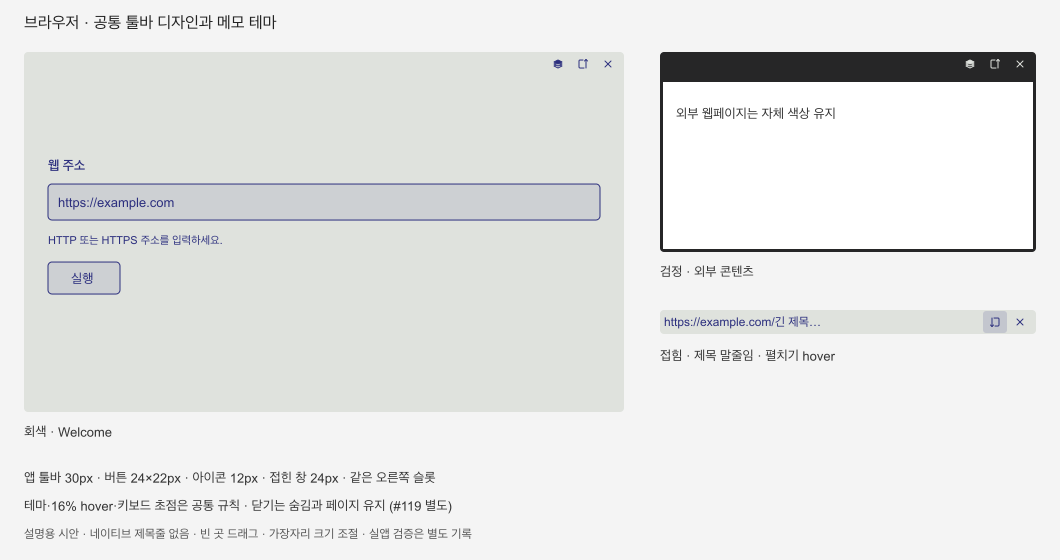
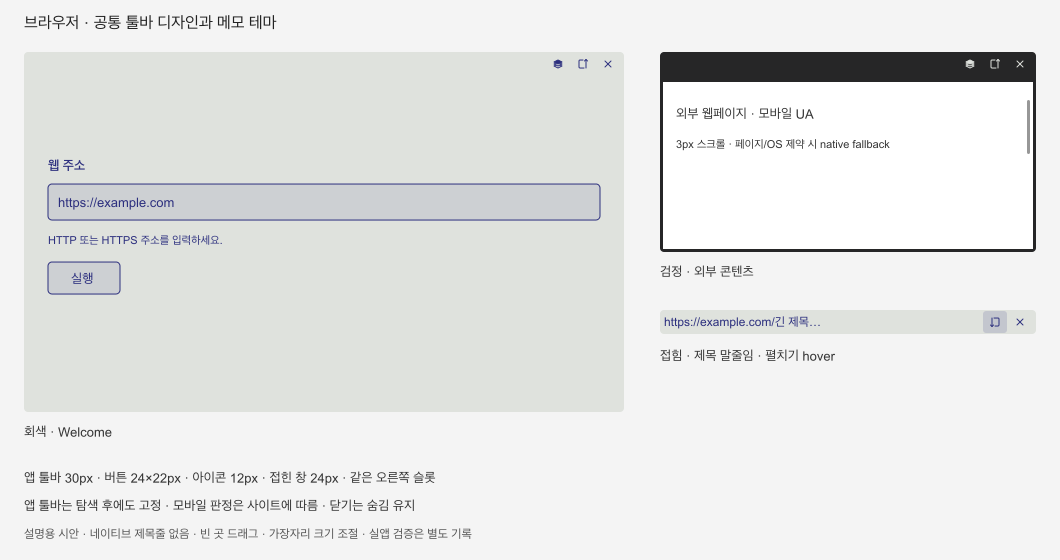
웹 메모 툴바 유지·모바일 표시와 시작 패닉 방지
웹 탐색 후 공통 툴바를 유지하고 모바일 UA·고정 스크롤 스타일을 적용한다. nullable WebView URL 관측으로 시작 패닉을 막고 세션 복원을 보완한다. 관련 Rust224/UI180·Clippy·빌드와 브라우저·실제 시작 검사를 통과했다. 남은 native GUI 검증은 #177, 웹 목록 누락은 #184에서 추적한다.

Changed region(s): [[0.0311, 0.8804, 0.4358, 0.9107], [0.6226, 0.2429, 0.8406, 0.2732], [0.716, 0.1821, 0.8094, 0.2125]]

diff --git a/tests/fixtures/web-presentation-probe.html b/tests/fixtures/web-presentation-probe.html
@@ -1,0 +1,3 @@
+<!doctype html><meta name="viewport" content="width=device-width,initial-scale=1"><title>ISSUE177-NATIVE-CONTENT</title><style>body{margin:0;font:12px sans-serif}header{background:#fed;padding:8px}pre{white-space:pre-wrap;overflow-wrap:anywhere}article{height:2400px;background:linear-gradient(white,#cde)}</style><header>ISSUE177-NATIVE-CONTENT <a href="/second">second</a> <button onclick="history.back()">back</button><button onclick="location.reload()">reload</button> <a href="file:///tmp/issue177-blocked">file blocked</a> <a href="tauri://localhost/web.html">internal blocked</a></header><pre id="report"></pre><article>scroll fixture</article><script>
+async function report(){let probes={};for(const [name,args] of [['manager_notes',{}],['save_note',{markdown:'IPC_UNEXPECTED',expectedRevision:9007199254740991}],['terminal_start',{cols:80,rows:24}],['web_chrome',{action:'inspect'}],['plugin:window|set_title',{title:'IPC_UNEXPECTED'}]]){try{await window.__TAURI__.core.invoke(name,args);probes[name]='UNEXPECTED_SUCCESS'}catch(e){probes[name]=String(e)}}let r={ua:navigator.userAgent,width:innerWidth,height:innerHeight,viewport:visualViewport.width,clientWidth:document.documentElement.clientWidth,dpr:devicePixelRatio,scrollbar:getComputedStyle(document.documentElement,'::-webkit-scrollbar').width,bridge:!!window.__TAURI__,path:location.pathname,probes};document.getElementById('report').textContent=JSON.stringify(r,null,2);fetch('/report',{method:'POST',body:JSON.stringify(r)})}addEventListener('load',report);addEventListener('resize',report)
+</script>

diff --git a/src-tauri/src/web_presentation.js b/src-tauri/src/web_presentation.js
@@ -1,0 +1,32 @@
+// Fixed presentation only: no application commands, remote input, or bridge.
+// Each top-level HTTP(S) document gets its own style; page CSS/CSP may override it.
+(() => {
+  if (!/^https?:$/.test(location.protocol)) return;
+  const apply = () => {
+    if (!document.head) return;
+    const style = document.createElement('style');
+    style.textContent = `
+      :root { scrollbar-gutter: auto; }
+      *::-webkit-scrollbar { width: 3px; height: 3px; }
+      *::-webkit-scrollbar-track, *::-webkit-scrollbar-corner { background: transparent; }
+      *::-webkit-scrollbar-thumb { background: rgba(96,96,96,.65); border-radius: 2px; }
+      @media (prefers-color-scheme: dark) {
+        *::-webkit-scrollbar-thumb { background: rgba(192,192,192,.65); }
+      }
+      @media (forced-colors: active) {
+        *::-webkit-scrollbar { width: auto; height: auto; }
+        *::-webkit-scrollbar-thumb { background: CanvasText; }
+      }`;
+    document.head.appendChild(style);
+    // Keep the site's authored viewport. Desktop WebKit does not emulate a
+    // touch device; this hint only fills the missing responsive viewport.
+    if (!document.querySelector('meta[name="viewport" i]')) {
+      const viewport = document.createElement('meta');
+      viewport.name = 'viewport';
+      viewport.content = 'width=device-width, initial-scale=1';
+      document.head.appendChild(viewport);
+    }
+  };
+  if (document.readyState === 'loading') document.addEventListener('DOMContentLoaded', apply, {once: true});
+  else apply();
+})();

diff --git a/ui/web.css b/ui/web.css
@@ -19,3 +19,9 @@ main[hidden] { display: none; }
    content reserves matching 3px side/bottom strips in web.rs. */
 #controls { cursor: move; }
 body.toolbar-collapsed .resize { display: none; }
+
+/* The trusted toolbar stays anchored when a focused Welcome field is hidden.
+   WebKit may retain the root scroll offset after focus moves to a child view. */
+html { overflow: hidden; }
+#controls { position: fixed; inset: 0 0 auto; }
+main { margin-top: 30px; }

diff --git a/src-tauri/src/web.rs b/src-tauri/src/web.rs
@@ -13,7 +13,12 @@ struct Record {
     url: Option<String>,
 }
 #[derive(Default)]
-pub struct Windows(Mutex<BTreeMap<String, Record>>);
+pub struct Windows(
+    Mutex<BTreeMap<String, Record>>,
+    // Navigation callbacks can precede record insertion during native startup.
+    Mutex<BTreeMap<String, String>>,
+    Mutex<BTreeMap<String, String>>,
+);
 // Preserve app-wide window enumeration for hosts containing remote child WebViews.
 pub fn managed_windows(app: &tauri::AppHandle) -> std::collections::HashMap<String, WebviewWindow> {
     let mut windows = app.webview_windows();
@@ -35,6 +40,9 @@ pub fn managed_window(app: &tauri::AppHandle, label: &str) -> Option<WebviewWind
             .map(|r| r.host.clone())
     })
 }
+// A mobile Safari UA is applied before the first network request. It is a
+// compatibility hint, not device emulation or a guarantee of mobile content.
+const MOBILE_USER_AGENT: &str = "Mozilla/5.0 (iPhone; CPU iPhone OS 18_0 like Mac OS X) AppleWebKit/605.1.15 (KHTML, like Gecko) Version/18.0 Mobile/15E148 Safari/604.1";
 fn err(e: impl std::fmt::Display) -> String {
     e.to_string()
 }
@@ -76,11 +84,55 @@ fn record(app: &tauri::AppHandle, id: &str) -> Result<Record, String> {
         .cloned()
         .ok_or("웹 창을 찾을 수 없습니다".into())
 }
+// Wry 0.57 macOS url() unwraps WKWebView.URL even before a document exists.
+// Read the public nullable property directly and report unknown as null. Do not
+// confuse the last allowed navigation target with the committed/current URL.
+fn current_webview_url(view: &tauri::Webview, app: &tauri::AppHandle, id: &str) -> Option<String> {
+    #[cfg(target_os = "macos")]
+    {
+        let app = app.clone();
+        let id = id.to_owned();
+        let observed = app.state::<Windows>().2.lock().ok()?.get(&id).cloned();
+        view.with_webview(move |platform| unsafe {
+            let native = &*platform.inner().cast::<objc2::runtime::AnyObject>();
+            let url: Option<objc2::rc::Retained<objc2_foundation::NSURL>> =
+                objc2::msg_send![native, URL];
+            let value = url
+                .and_then(|url| url.absoluteString())
+                .map(|s| s.to_string());
+            if let Ok(mut urls) = app.state::<Windows>().2.lock() {
+                if let Some(value) = value {
+                    urls.insert(id, value);
+                } else {
+                    urls.remove(&id);
+                }
+            }
+        })
+        .ok()?;
+        // Native callbacks may be deferred. Return only an actually observed
+        // URL, never wait on the UI thread or substitute a navigation target.
+        observed
+    }
+    #[cfg(not(target_os = "macos"))]
+    {
+        let _ = (app, id);
+        view.url().ok().map(|url| url.to_string())
+    }
+}
 pub fn inspect(app: &tauri::AppHandle, id: &str) -> Result<Value, String> {
     let r = record(app, id)?;
     let w = r.host.clone();
+    let content = app.get_webview(&format!("webpage-{id}"));
+    let current_url = current_webview_url(content.as_ref().unwrap_or(w.as_ref()), app, id);
+    let navigation_url = app
+        .state::<Windows>()
+        .1
+        .lock()
+        .map_err(err)?
+        .get(id)
+        .cloned();
     Ok(
-        json!({"ok":true,"instance":crate::instance::current().id,"id":id,"kind":"web","title":w.title().map_err(err)?,"url":r.url,"welcome":r.url.is_none(),"current_url":app.get_webview(&format!("webpage-{id}")).map(|v| v.url()).transpose().map_err(err)?.unwrap_or(w.url().map_err(err)?).as_str(),"visible":w.is_visible().map_err(err)?,"focused":w.is_focused().map_err(err)?,"always_on_top":w.is_always_on_top().map_err(err)?,"position":w.outer_position().map_err(err)?,"size":w.inner_size().map_err(err)?}),
+        json!({"ok":true,"instance":crate::instance::current().id,"id":id,"kind":"web","title":w.title().map_err(err)?,"url":r.url,"welcome":r.url.is_none(),"current_url":current_url,"navigation_url":navigation_url,"visible":w.is_visible().map_err(err)?,"focused":w.is_focused().map_err(err)?,"always_on_top":w.is_always_on_top().map_err(err)?,"position":w.outer_position().map_err(err)?,"size":w.inner_size().map_err(err)?}),
     )
 }
 pub fn entries(app: &tauri::AppHandle) -> Result<Vec<Value>, String> {
@@ -106,6 +158,31 @@ fn show(w: &WebviewWindow) -> Result<(), String> {
     w.show().map_err(err)?;
     #[cfg(any(target_os = "macos", windows))]
     crate::focus::restore(w);
+    Ok(())
+}
+// Configure only public NSScrollView descendants owned by this remote view.
+// No private WK selectors or application/global scrollbar preferences are used.
+fn configure_native_scrollbars(content: &tauri::Webview) -> Result<(), String> {
+    #[cfg(target_os = "macos")]
+    content
+        .with_webview(|platform| unsafe {
+            use objc2::{runtime::NSObjectProtocol, ClassType};
+            use objc2_app_kit::{NSScrollView, NSScrollerStyle, NSView};
+            fn apply(view: &NSView) {
+                if view.isKindOfClass(NSScrollView::class()) {
+                    // SAFETY: isKindOfClass above checked this public superclass.
+                    let scroll = unsafe { &*(view as *const NSView as *const NSScrollView) };
+                    scroll.setScrollerStyle(NSScrollerStyle::Overlay);
+                }
+                for child in view.subviews() {
+                    apply(&child);
+                }
+            }
+            apply(&*platform.inner().cast::<NSView>());
+        })
+        .map_err(err)?;
+    #[cfg(not(target_os = "macos"))]
+    let _ = content;
     Ok(())
 }
 // Keep remote content below the trusted toolbar. A decorated macOS host has
@@ -272,7 +349,24 @@ pub(crate) fn create_presented(
             format!("webpage-{id}"),
             WebviewUrl::External(target),
         )
-        .on_navigation(|url| validate_url(url.as_str()).is_ok())
+        .user_agent(MOBILE_USER_AGENT)
+        .initialization_script(include_str!("web_presentation.js"))
+        .on_navigation({
+            let app = app.clone();
+            let id = id.clone();
+            move |url| {
+                if validate_url(url.as_str()).is_err() {
+                    return false;
+                }
+                if let Ok(mut observed) = app.state::<Windows>().2.lock() {
+                    observed.remove(&id);
+                }
+                if let Ok(mut urls) = app.state::<Windows>().1.lock() {
+                    urls.insert(id.clone(), url.as_str().to_owned());
+                }
+                true
+            }
+        })
         .on_new_window(|_, _| tauri::webview::NewWindowResponse::Deny)
         .on_download(|_, _| false);
         let size = w
@@ -293,9 +387,9 @@ pub(crate) fn create_presented(
             }
         };
         // Reapply after attachment: Wry now resolves the child's actual parent.
-        if let Err(error) =
+        if let Err(error) = configure_native_scrollbars(&content).and_then(|_| {
             content_bounds(w.as_ref()).and_then(|bounds| content.set_bounds(bounds).map_err(err))
-        {
+        }) {
             // Preserve an existing Welcome and remove only this attempted child.
             let _ = content.close();
             if previous.is_none() {

diff --git a/src-tauri/src/session_restore.rs b/src-tauri/src/session_restore.rs
@@ -11,6 +11,17 @@ use std::{
     time::Duration,
 };
 use tauri::{LogicalSize, Manager};
+// During initial load WebKit has no current URL. Preserve the requested HTTP(S)
+// address for restoration without presenting it as an observed current URL.
+fn web_restore_url(value: &serde_json::Value) -> Result<String, String> {
+    let url = value["current_url"]
+        .as_str()
+        .filter(|url| crate::web::validate_url(url).is_ok())
+        .or_else(|| value["url"].as_str())
+        .ok_or("웹 주소 없음")?;
+    crate::web::validate_url(url)?;
+    Ok(url.to_owned())
+}
 const FILE: &str = ".session-windows.json";
 const MAX_BYTES: u64 = 4 * 1024 * 1024;
 #[derive(Serialize, Deserialize)]
@@ -312,12 +323,7 @@ fn save(app: &tauri::AppHandle) -> Result<(), String> {
         let url = if let Some(id) = label.strip_prefix("webview-") {
             let value = crate::web::inspect(app, id)?;
             if value["welcome"] == false {
-                Some(
-                    value["current_url"]
-                        .as_str()
-                        .ok_or("웹 주소 없음")?
-                        .to_owned(),
-                )
+                Some(web_restore_url(&value)?)
             } else {
                 None
             }
@@ -399,6 +405,21 @@ mod tests {
     use super::*;
     fn sample() -> Snapshot {
         serde_json::from_value(serde_json::json!({"version":1,"windows":[{"window":{"label":"webview-web-a","x":-100,"y":20,"width":600,"height":24,"visible":false,"minimized":false,"always_on_top":true},"expanded":[600,400],"url":"https://example.com/last"}]})).unwrap()
+    }
+    #[test]
+    fn web_url_before_load_restores_request_without_confusing_navigation() {
+        use serde_json::json;
+        assert_eq!(web_restore_url(&json!({"current_url":null,"url":"https://example.com/start","navigation_url":"https://example.com/pending"})).unwrap(), "https://example.com/start");
+        assert_eq!(web_restore_url(&json!({"current_url":"https://example.com/redirect","url":"https://example.com/start"})).unwrap(), "https://example.com/redirect");
+        assert!(web_restore_url(&json!({"current_url":null,"url":"file:///tmp/x"})).is_err());
+        assert!(web_restore_url(&json!({"current_url":null,"url":null})).is_err());
+        assert_eq!(
+            web_restore_url(
+                &json!({"current_url":"about:blank","url":"https://example.com/start"})
+            )
+            .unwrap(),
+            "https://example.com/start"
+        );
     }
     #[test]
     fn safe_command_preview_discards_secrets_and_edits() {

diff --git a/docs/verification/issue177-web-mobile-chrome.md b/docs/verification/issue177-web-mobile-chrome.md
@@ -1,0 +1,73 @@
+# 웹 메모 툴바와 모바일 표시 검증 — #177
+
+## 출처와 범위
+
+- 작업 루트 `/Users/egoinglee/.codex/worktrees/web-mobile-chrome/agent-gibbon`, 브랜치 `codex/web-mobile-chrome`, 기준 `91b1751`, 계획 커밋 `2e49442`. 제품 변경은 미커밋이다.
+- `npm run dev:info`: instance `dev-bc6e1725e127f16cdc1f2999`, binary `/Users/egoinglee/.codex/worktrees/web-mobile-chrome/agent-gibbon/src-tauri/target/debug/agent-gibbon`.
+- macOS 15.6.1 ARM64, Node26.0.0, pnpm11.25.0, Rust1.91.1, Tauri2.12.2/Wry0.57.0 설치 소스 확인. Intel/Windows 실행 및 전체 플랫폼 CI/배포는 하지 않는다.
+
+## 실제 baseline
+
+팀장 GUI 슬롯에서 PID37730의 실행 파일 경로와 CLI inspect의 instance·ID `web-issue177-native`·native 제목 `Agent Gibbon [DEV codex/web-mobile-chrome · bc6e1725] — 웹 — web-issue177-native`를 대조했다. Orca get-app-state 창ID73476과 일치한다. CUA는 번들 없는 debug 앱 선택이 불가능했고 computer-use 스킬의 PID 선택 경로를 사용했다.
+
+Welcome URL 입력 focus→실행→loopback18777 `/redirect`→`/page`의 실제 HTTP와 화면을 확인했다. 첫 요청과 redirect 후 요청은 desktop Mac UA였고 innerWidth594/innerHeight367/visualViewport579이었다. 외부 child가 y30부터 나타나면서 앱 툴바는 AX에 남지만 픽셀에는 없었다. OS 제목줄은 baseline에서도 없었다. 수정 결과는 아래에서 별도 판정한다.
+
+baseline capture: `/var/folders/ds/zm2jvd217ss_q5jy2bjcbb9c0000gn/T/orca-computer-use/00a3f508-148d-4684-9d9c-c896c68af3f8-screenshot.png`, snapshot `/tmp/gibbon-issue177/baseline-state.json`, HTTP `/tmp/gibbon-issue177/requests.jsonl`.
+
+## 자동 검사
+
+- `npm run test`: Rust223/UI204 통과.
+- `npm run check`: Clippy all-targets -D warnings 통과.
+- `npm run dev:build`: 통과. 재시작 후 최신 실제 동작 확인은 별도다.
+- `scripts/web-toolbar-smoke.mjs`: 5테마×3너비(144/240/600), 주소 focus→실제 form submit→Welcome hidden 후 상단 위치·버튼·접힘·핀·hover·키보드 검사15조합 통과. mock IPC의 Chromium 검사이며 native 대체 증거가 아니다.
+- `scripts/web-presentation-smoke.mjs`: authored viewport 보존, 누락 viewport 추가,3px 스타일, forced-colors native복귀, bridge 미생성 및 fresh navigation 검사 통과(Chromium).
+- `rsvg-convert docs/design/web-welcome.svg -o docs/design/web-welcome.png` 실행, PNG 실제 열람 완료.
+
+## 공식 API와 한계
+
+[Tauri WebviewBuilder](https://docs.rs/tauri/2.12.2/tauri/webview/struct.WebviewBuilder.html)의 user_agent와 고정 initialization_script를 사용한다. 외부 invoke 거부, URL validate, 팝업/다운로드 차단은 기존 그대로다. 고정 script는 스타일과 누락된 viewport 힌트만 추가하며 외부 입력을 실행하거나 IPC 권한을 부여하지 않는다. 사이트 authored viewport는 유지한다.
+
+[WebKit 공식 WKWebpagePreferences 헤더](https://github.com/WebKit/WebKit/blob/main/Source/WebKit/UIProcess/API/Cocoa/WKWebpagePreferences.h)는 preferredContentMode를 iOS 전용으로 명시한다. macOS에서 비공개 모바일 기기 설정을 호출하지 않는다. [Tauri ScrollBarStyle](https://docs.rs/tauri/2.12.2/tauri/webview/enum.ScrollBarStyle.html)의 Fluent overlay는 Windows 전용이며 데이터 디렉터리 전체에 동일 설정을 요구하므로 외부 한 창만을 위해 전역 설정을 바꾸지 않는다.
+
+3px CSS는 native scrollbar의 표시 스타일이며 텍스트 메모의 별도 DOM overlay와 완전 동일한 hit/숨김/공간 사용은 보장하지 않는다. 서버별 UA/화면폭/쿠키/서비스 정책과 client platform/touch 신호 판정은 사이트에 따른다.
+
+## 수정 native 검증
+
+최신 빌드 재시작 후 PID65368 / native 창ID73583 / 동일 binary와 instance / ID `web-issue177-fixed` / 제목의 고유 ID를 대조했다. Welcome URL field를 focus→정확한 loopback 주소 입력(AXReplaceSelection verified)→실행→redirect→page 후 캡처에서 앱 툴바 버튼이 유지됨을 확인했다. OS 제목줄도 없다. child 콘텐츠 시작 위치는 정상인30px였고, 입력 focus 후 Welcome hidden 전환의 trusted chrome 스크롤/레이아웃 영향이 원인으로 추정된다. viewport 고정 후 동일 경로에서 버튼 표시를 확인했으며 native DOM scroll offset을 직접 계측한 것은 아니다.
+
+실제 최초 `/redirect` 및 `/page` HTTP User-Agent와 페이지 navigator.userAgent는 모두 `Mozilla/5.0 (iPhone; CPU iPhone OS 18_0 like Mac OS X) AppleWebKit/605.1.15 (KHTML, like Gecko) Version/18.0 Mobile/15E148 Safari/604.1`로 일치했다. 페이지는 innerWidth594/innerHeight367/visualViewport579/dpr2를 보고했다. 이 값은 페이지 load 시 첫 측정이며 후속 스타일 적용 후 viewport와 혼동하지 않는다. `second` 링크로 `/second` 이동 후 해당 페이지의 back 버튼으로 `/page` 복귀를 실제 AX/화면에서 확인했다. reload는 아직 누르지 않았다.
+
+[수정 native 캡처](issue177-native-toolbar.png)는 고정 toolbar와 실제 모바일UA를 함께 보여준다. 가로 thumb는3px 스타일을 따르지만 세로 native scrollbar는 두꺼운 상태였다. 이후 **공개 NSView 하위의 NSScrollView에만 Overlay를 지정하는 native 후보를 추가해 빌드·검사를 통과했으나 이 후보의 실제 수용 여부는 미검증**이다. OS 전역 설정이나 비공개 WK API는 사용하지 않는다. 관련 [Apple 공식 scrollerStyle](https://developer.apple.com/documentation/appkit/nsscrollview/scrollerstyle)의 공개 setter를 사용하며 모든 하위 view가 NSScrollView라고 가정하지 않고 superclass 확인 후 적용한다. 현재는 attachment 직후 한 번만 적용한다. 시작 패닉 후 early page-load callback을 제거했으므로 재탐색 뒤 native 설정 유지 여부는 별도 미검증이다. WebKit이 이 public descendant를 노출하지 않거나 설정을 거부하면 native fallback이 남는다.
+
+## GUI 중단과 남은 검증
+
+사용자가 Orca가 열리는 문제를 제기했고 팀장이 추가 실행·재기동과 native GUI 입력 중단을 지시했다. 현재 이를 준수하며 기존 Orca/사용자 앱을 종료하지 않는다. 시험창은 `visible:false`, `focused:false`로 확인했다. desktop PID 선택을 위해 스킬 가이드에 따라 Orca를 한 번 기동했으며 자동 반복 기동하지 않았다. 변경 코드 자체에는 Orca 실행 경로가 없다.
+
+남은 실제 native 검사: 최신 Overlay 후보의 수용·viewport 재측정, 외부 invoke의 exact guard 오류 확인(읽기·쓰기·terminal_start·plugin/window), reload·resize·toolbar drag·fold/unfold·hide/reopen·외부 권한과 비HTTP(S) 탐색 거부. 고정 fixture는 `tests/fixtures/web-presentation-probe.html`에 준비했다. 이 fixture는 raw 사용자 메모 내용을 전송하지 않으며 probe 결과/일반 viewport 측정만 loopback에 보낸다. 미실행을 통과로 기록하지 않는다.
+
+최신 후보는 Conf3(관련 테스트 통과), RiskMedium(외부 WebView/native 상태·사이트 표시 영향)이다. 툴바/UA 부분은 실제 환경 확인(Conf5)을 수행했지만 전체 변경의 Conf를 그 수준으로 올리지 않는다. Windows/Intel 실환경, 전체 플랫폼 CI/배포는 미실행이다. 최종 제품 커밋·push·병합은 승인받지 않았고 수행하지 않았다.
+
+
+## 2026-11-14 개발 시작 패닉 수정
+
+사용자가 `node scripts/dev.mjs dev` 시작 중 Wry0.57.0 wkwebview/mod.rs:1370 URL unwrap 패닉을 보고했다. 최신 실기기 crash report `agent-gibbon-2026-11-14-215319.ips`의 triggered thread에서 `web_chrome → web::inspect → Webview::url → Wry InnerWebView::url → url_from_webview → Option::unwrap_failed`를 확인했다. native scroller 호출이 해당 crash stack에 나타난 것은 아니다.
+
+Wry의 URL getter는 초기 WKWebView.URL이 nil일 때 panic하므로 macOS inspect는 공개 nullable `URL`/`absoluteString` getter를 사용하고 실제 관측값을 캐시에 보관한다. dispatcher가 callback을 지연할 수 있어 UI thread에서 기다리지 않으며 `current_url`은 최초 미관측/미로드 때 null이다. `navigation_url`은 검증을 통과한 탐색 target이고 성공/commit을 뜻하지 않는다. 원래 `url`은 요청 주소다. 새로운 허용 탐색 시 이전 관측 캐시를 비운다. 거부 scheme은 탐색 캐시를 바꾸지 않는다. 빠른 page-load callback 자체도 Wry의 nullable URL 경로를 사용하므로 추가했던 해당 callback을 제거했다.
+
+세션 저장은 유효한 실제 current_url을 우선하고 아직 없거나 about:blank이면 요청한 HTTP(S) 주소를 복원용으로 보관한다. 이를 화면의 관측 current_url로 대신 보고하지 않는다. null/about:blank/redirect/원래 요청/거부 scheme을 단위 회귀에 추가했다.
+
+`RUST_BACKTRACE=1 node scripts/dev.mjs dev`로 직접 시작하고 기존 시험 웹2개·main·이미지의 hidden 상태를 보존했다. 서버 off에서 current_url:null인 inspect/list가 정상 응답하고 앱이 살아 있으며, server on으로 본인 dev 재시작 후 current_url:/page가 실제 관측됐다. 이어 loopback /page가302→/loaded를 응답하도록 해서 재시작했고 `url:/page`, `navigation_url:/loaded`, `current_url:/loaded`를 CLI로 구분 확인했다. `dev:info`와 instance는 위와 같고 첫 성공 실행 PID49680은 lsof txt로 정확한 작업 binary를 대조했다. 추가 GUI/Orca/컴퓨터유즈 입력은 하지 않았다.
+
+복원된 hidden 외부 페이지의 고정 fixture 자동 보고에서 HTTP/navigator 모바일UA 일치, innerWidth594/clientWidth591/visualViewport591, CSS scrollbar3px를 확인했다. 3px 공간이 남으므로 텍스트의 완전한 overlay와 동일하다고 보고하지 않는다. native Overlay 설정의 시각적 수용 여부는 여전히 미검증이다.
+
+외부 자동 probe의 manager_notes/save_note/terminal_start/web_chrome는 `not allowed. Plugin not found`, plugin:window|set_title은 permission 거부였다. 원문 메모 데이터나 terminal 실행 결과를 받지 않았고 title도 바뀌지 않았다. 이는 permission 계층에서 차단된 실제 증거이며 커스텀 invoke guard의 exact문구까지 도달해 시험한 것으로 보고하지 않는다. HTTP/fixture 로그는 `/tmp/gibbon-issue177/requests.jsonl`이다.
+
+최종 관련 검사: Rust224/UI204 통과, Clippy -D warnings 통과, rustfmt/diff-check 통과, 개발 빌드 및 정상 dev 시작 확인. 시작 패닉 수정은 실제환경 확인(Conf5), 전체 작업은 앞서 남긴 native 상호작용 미검증 때문에 전체Conf3/RiskMedium을 유지한다. 모든 제품 변경은 미커밋이다.
+
+## close 승인과 최신 main 통합
+
+사용자가 2026-11-14 `$close`를 직접 호출해 현재 작업의 커밋·push·일반 병합을 승인했다. 제품 커밋 `e66d3d9`를 만들고 최신 origin/main `470bb52`를 merge한 `8b21ac3`에서 관련 검사를 다시 수행했다. 디자인 시스템 충돌은 웹 규칙과 Milkdown/자동저장 규칙 양쪽을 보존했다. 다른 워크트리의 미커밋 작업은 가져오지 않았다.
+
+통합 코드에서 Rust224·UI180(최신 main의 테스트 구성)·Clippy -D warnings·개발 빌드·rustfmt·diff-check, Chromium toolbar15조합·presentation 검사 통과. `RUST_BACKTRACE=1 node scripts/dev.mjs dev` 정상 실행과 `web-issue177-fixed`의 instance 일치·hidden/focus/기하 보존·offline current_url:null inspect 성공을 확인했다. GUI/Orca를 사용하지 않았다. 전체 플랫폼 CI·Windows/Intel 실환경·공개 배포는 미실행이다.
+
+#184는 사용자가 별도로 요청한 웹 목록 누락 후속 이슈다. 코드에서 manager_notes가 웹 entry를 합치지 않는 것을 확인했으며 이번 PR에 목록 기능을 혼입하지 않는다. #177은 native resize/drag/fold/reload/권한 UI 및 세로 overlay의 실제 외형 검증이 남아 있으므로 이번 병합으로 자동 종료하지 않는다. 남은 원래 요구를 완료한 것처럼 옮기거나 숨기지 않는다. 전체 Conf3/RiskMedium을 유지한다.

diff --git a/docs/plans/issue177-web-mobile-chrome.md b/docs/plans/issue177-web-mobile-chrome.md
@@ -1,0 +1,28 @@
+# 웹 메모 native 배치와 모바일 표시 개선
+
+이슈: #177. 기준 main `91b1751`. 브랜치 `codex/web-mobile-chrome`.
+
+## 완료 단계
+
+- [x] 관련 이슈·디자인 시스템·연결 SVG/PNG·첨부 화면 확인
+- [x] 설치된 Tauri/Wry 소스와 공식 API에서 native 배치·모바일 기능·스크롤 제약 확인
+- [x] 외부 콘텐츠가 앱 툴바를 침범하지 않도록 배치 수정, 모바일 UA와 지원 native 기능 적용
+- [ ] 외부 IPC 거부·HTTP(S) 제한 유지 및 관련 Rust/UI 검사·개발 빌드
+- [ ] 실제 HTTP UA와 navigator/viewport 및 Welcome 전환·탐색·resize·접힘·숨김 확인
+- [ ] 디자인 시스템·SVG/PNG·검증 기록 갱신, 한계와 Conf/Risk 보고
+
+## 경계
+
+#158 신규 탐색 버튼, #119 닫기 계약, 15번 terminal/image, 17번 공통 toolbar 더블클릭은 별도다. 17번은 web_chrome match action만 추가하며 web.rs 배치와 모바일 설정은 16번이 소유한다. 임의 사이트의 JS 권한이나 host bridge를 확대하지 않는다. 사이트별 모바일 판정은 보장할 수 없으며 3px overlay는 native WebView가 제공하는 제약을 확인해 가장 근접한 fallback과 근거를 제시한다.
+
+첫 계획 커밋·push·Draft PR은 승인 범위다. 제품 최종 커밋·push·병합은 별도 승인 대기한다. 전체 플랫폼 CI·배포는 실행하지 않는다. GUI는 팀장 슬롯 승인 후 출처를 확인하고 사용자 상태를 보존한다.
+
+## 현재 검증 상태
+
+Rust223/UI204·Clippy·개발 빌드와 Chromium toolbar15조합·presentation 검사를 통과했다. 실제 native에서 Welcome→redirect 뒤 toolbar 유지·HTTP/navigator 모바일UA 일치·second/back을 확인했다. [검증 기록](../verification/issue177-web-mobile-chrome.md)과 [디자인 시스템](../design-system.md)에 기준·스크롤 한계 및 미검증을 기록했다.
+
+사용자 피드백에 따른 팀장의 추가 Orca 실행/재기동·native GUI 조작 중단 지시를 준수한다. 공개 NSScrollView Overlay 후보와 보안probe/resize/drag/fold/reload/권한은 아직 native 검증 전이며 완료로 표시하지 않는다. GUI 검증 방식 결정 뒤 이어간다. 최종 제품 커밋·push·병합은 하지 않았다.
+
+사용자 dev시작 패닉 제보 대응: nullable WKWebView URL을 강제로 읽던 inspect 경로를 교체하고 실제관측 URL/허용탐색/요청주소를 구분했다. session_restore의 null fallback과 회귀를 추가했으며 Rust224/UI204·Clippy·빌드·실제 dev시작·오프라인nil·온라인302후 실제URL을 확인했다. 보안 probe는 hidden 복원 페이지 자동실행으로 permission계층 거부를 확인했고 추가 GUI/Orca는 사용하지 않았다. 상세 기록은 위 검증 기록을 따른다.
+
+close 호출로 커밋·push·일반 병합 승인을 받았다. 제품e66d3d9 및 최신main470bb52 통합8b21ac3에서 Rust224/UI180·Clippy/build·browser15+presentation·실제 시작/hidden복원 CLI를 재확인했다. 웹 목록 누락은 별도 요청 #184에 기록했다. #177 원래 완료 기준의 남은 GUI 검증은 유지하며 병합으로 이슈를 닫지 않는다.

diff --git a/docs/design-system.md b/docs/design-system.md
@@ -1,3 +1,9 @@
+## 웹 메모 외부 탐색과 모바일 표시 — #177 · 2026-11-14
+
+- OS 제목줄 없는 기존 native 창을 유지한다. 웹 전용 앱 툴바는 viewport 상단에 고정해 Welcome 주소 입력 focus 후 본문 숨김·외부 탐색에도 30px 전용 행을 유지한다. 버튼·핀·접힘·닫기 계약은 공통 기준을 따른다.
+- 외부 WebView의 첫 요청부터 모바일 Safari UA를 사용한다. 실제 창 콘텐츠 너비가 viewport이며 사이트가 작성한 viewport meta는 보존하고 없는 경우에만 `width=device-width, initial-scale=1` 힌트를 추가한다. UA 변경은 터치·모바일 OS·기기 에뮬레이션이 아니며 서버의 모바일 판정은 사이트별로 달라 보장하지 않는다. WK `preferredContentMode`는 공식 헤더상 iOS 전용이므로 macOS 비공개 설정을 사용하지 않는다.
+- 스크롤은 고정 표시 스타일로 WebKit의 thumb 폭/높이 3px·라운드 2px·투명 track을 요청한다. 앱 IPC·외부 eval 권한·host bridge를 추가하지 않는다. 텍스트 메모의 완전한 overlay·자동 숨김·12px 확장 hit 영역을 외부 사이트에 보장하지 않으며 native/WebView 레이아웃에서 3px 공간이 남을 수 있다. macOS는 해당 외부 WebView의 공개 NSScrollView 하위에만 native Overlay를 요청한다(실제 수용은 검증 기록에서 별도 판정). 사이트 CSS·CSP·shadow DOM·프레임과 페이지 자체 커스텀 스크롤은 통일 대상 보장 밖이다. 적용 불가 시 페이지/OS native 스크롤을 유지하며 forced-colors는 native 크기로 복귀한다.
+- [웹 시안 SVG](design/web-welcome.svg) · [PNG](design/web-welcome.png). 설명 시안과 실제 native 검증은 구분하며 [검증 기록](verification/issue177-web-mobile-chrome.md)에 실행 결과와 미검증을 기록한다.
 ## 자동저장 — #174 후속 · 2026-11-14
 
 - **사용자 확정:** 텍스트 메모를 자동저장한다. 기존 명시 저장만 사용하던 아래 #174의 저장 정책을 이 절로 대체한다. 현재 구현값은 마지막 변경 후 **600ms** 대기이며 새로운 입력은 대기를 다시 시작한다. 읽기/선택만으로는 저장하지 않고, 한글 조합 중에는 대기한 뒤 확정 후 저장한다.
